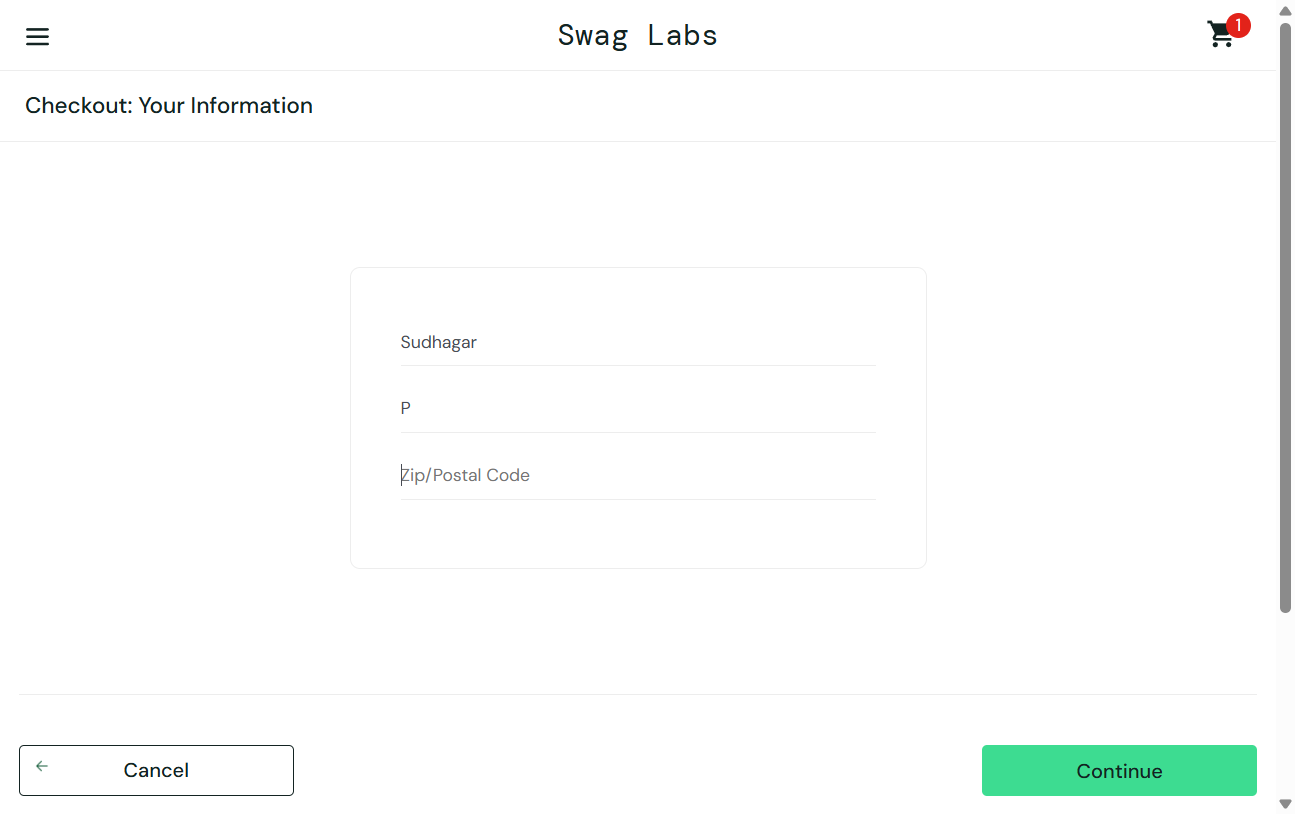
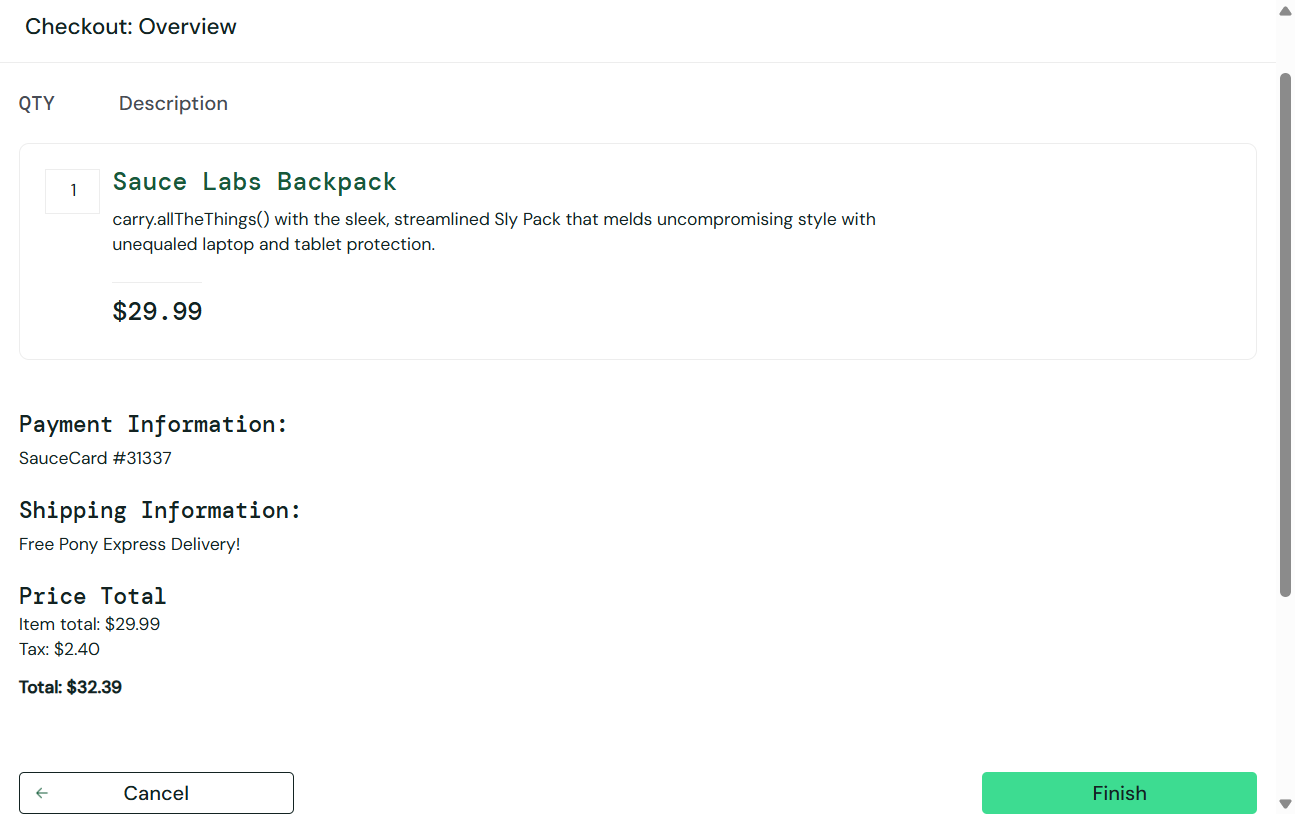
config

diff --git a/src/test/java/com/krct/ConfigReader.java b/src/test/java/com/krct/ConfigReader.java
@@ -1,0 +1,55 @@
+package com.krct;
+
+import java.io.FileInputStream;
+import java.io.IOException;
+import java.util.Properties;
+
+public class ConfigReader {
+
+    Properties prop;
+
+    public ConfigReader(){
+
+        prop = new Properties();
+
+        try{
+
+            FileInputStream file = new FileInputStream("src/test/resources/config.properties");
+
+            prop.load(file);
+
+        }catch (IOException e){
+
+            e.printStackTrace();
+        }
+    }
+
+    public String getBrowser(){
+
+        return prop.getProperty("browser");
+    }
+
+    public String getBaseUrl(){
+
+        return prop.getProperty("baseUrl");
+    }
+
+
+    public int getTimeout(){
+
+        return Integer.parseInt(
+                prop.getProperty("timeout")
+        );
+    }
+
+
+    public String getUsername(){
+
+        return prop.getProperty("username");
+    }
+
+    public String getPassword(){
+
+        return prop.getProperty("password");
+    }
+}

diff --git a/src/test/java/com/krct/BaseTest.java b/src/test/java/com/krct/BaseTest.java
@@ -13,7 +13,9 @@ public class BaseTest {
     protected WebDriver driver;
     protected WebDriverWait wait;
 
-    protected String loginurl = "https://www.saucedemo.com/";
+    ConfigReader config = new  ConfigReader();
+
+    protected String loginurl = config.getBaseUrl();
 
     @BeforeMethod
     public void setup(){